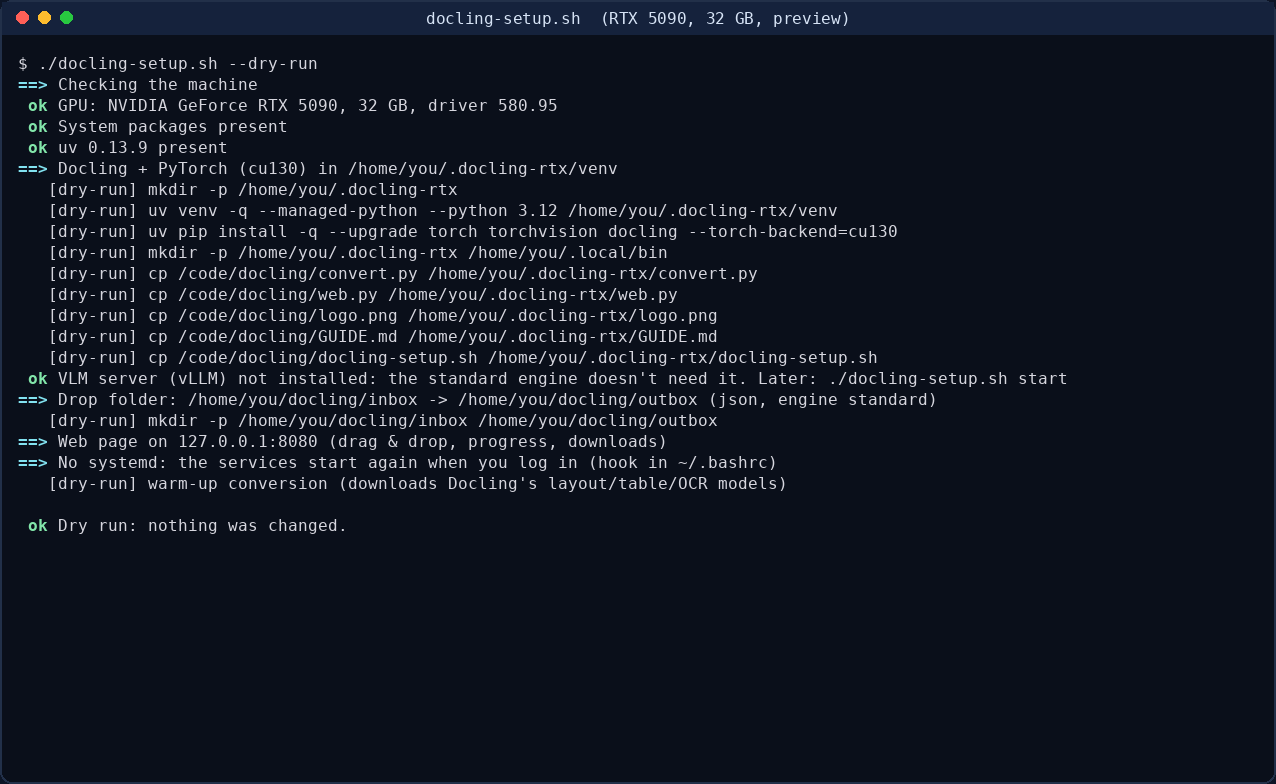
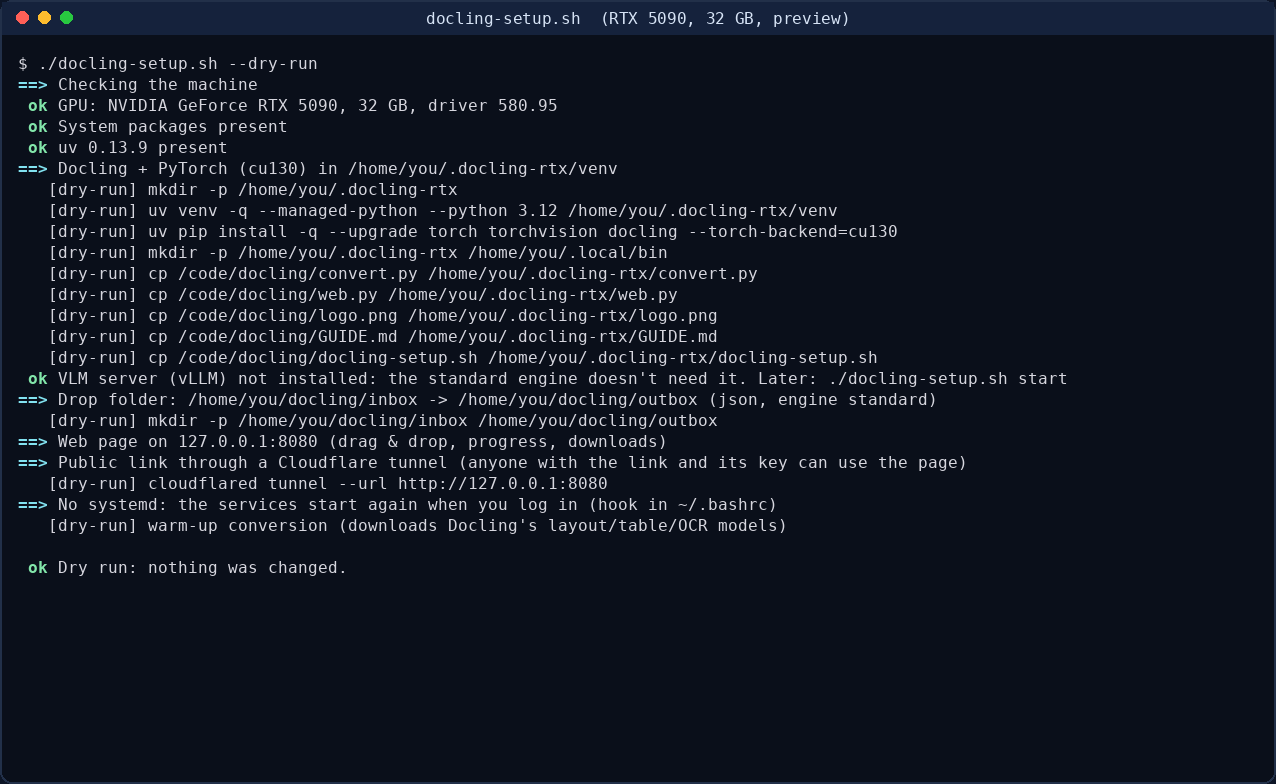
v1.4.0: public link via Cloudflare quick tunnel (on by default, key required), CHANGELOG.md, install time in README
- cloudflared downloaded into ~/.docling-rtx/bin; docling-tunnel service (or background + autostart)
- web page always asks for its key when the tunnel is on (also from localhost); shows the current
  public link with a copy button; warns before uploads over Cloudflare's 100 MB limit
- docling-rtx web tunnel on|off|logs; Settings: tunnel / SSH only / direct link
- CHANGELOG.md for 1.0.0-1.4.0; README: ~12 min install, public link step, SSH alternative

Changed region(s): [[0.0306, 0.5816, 0.7641, 0.6735], [0.0306, 0.7041, 0.2751, 0.7347], [0.0306, 0.6429, 0.0611, 0.6735]]

diff --git a/web.py b/web.py
@@ -14,6 +14,7 @@ import argparse
 import hmac
 import json
 import os
+import re
 import shutil
 import tempfile
 import subprocess
@@ -154,6 +155,14 @@ def poke(rel):
         pass
 
 
+def public_url():
+    """The Cloudflare quick tunnel's current address, from cloudflared's log (it changes on every restart)."""
+    if not A.tunnel_log:
+        return None
+    found = re.findall(r"https://[a-z0-9-]+\.trycloudflare\.com", _read(Path(A.tunnel_log).expanduser()) or "")
+    return found[-1] if found else None
+
+
 def state():
     inbox, outbox = Path(A.inbox).expanduser(), Path(A.outbox).expanduser()
     try:
@@ -195,6 +204,7 @@ def state():
     return {"watcher": watcher, "current": cur, "vllm": vllm_up(port), "vllm_port": port, "gpu": gpu(), "docs": docs,
             "archive": str(Path(A.archive).expanduser()),
             "device": st.get("device"), "batch": A.batch, "sys": system(),
+            "public_url": (lambda u: u and u + "/?token=" + quote(A.token))(public_url()) if A.token else None,
             "inbox": str(inbox), "outbox": str(outbox)}
 
 
@@ -350,6 +360,8 @@ th,td{padding:10px 12px;text-align:left;border-bottom:1px solid var(--line)}th{c
 .st{font-size:13px;font-weight:600}.done{color:var(--ok)}.failed{color:var(--bad)}.waiting{color:var(--warn)}.converting{color:var(--acc)}.cancelled{color:var(--dim)}
 .cpu{border-color:var(--bad);color:var(--bad)}.stop{border-color:#ff6b6b88;color:#ffb3b3}.stop:hover{background:#ff6b6b22}
 .curhead{display:flex;justify-content:space-between;align-items:center;gap:12px}
+.share{display:flex;align-items:center;gap:10px;margin-top:12px;background:var(--card);border:1px solid var(--line);border-radius:12px;padding:8px 12px;font-size:13px}
+.share code{flex:1;overflow:hidden;text-overflow:ellipsis;white-space:nowrap;color:var(--text)}.share span{color:var(--dim)}
 .stats{display:grid;grid-template-columns:repeat(4,1fr);gap:10px;margin-top:16px}
 .stat{background:var(--card);border:1px solid var(--line);border-radius:12px;padding:9px 12px}
 .stat .k{display:flex;justify-content:space-between;font-size:12px;color:var(--dim)}.stat .k b{color:var(--text);font-weight:600;font-variant-numeric:tabular-nums}
@@ -362,6 +374,7 @@ button:disabled{opacity:.45;cursor:default}
 </style></head><body><main>
 <header><h1><img src="/logo.png" alt="" onerror="this.remove()">Docling RTX</h1><div class="pills" id="pills"></div></header>
 <div class="stats" id="stats"></div>
+<div id="share"></div>
 <div id="drop"><b>Drop documents here</b> or click to choose<br><span class="dim">PDF, Word, Excel, PowerPoint, CSV, HTML, images, email&hellip; Each one becomes structured JSON.</span>
 <input type="file" id="pick" multiple hidden></div>
 <div id="up"></div><div id="cur"></div>
@@ -372,7 +385,9 @@ button:disabled{opacity:.45;cursor:default}
 </main><script>
 const $=s=>document.querySelector(s), esc=s=>String(s??'').replace(/[&<>"']/g,c=>({'&':'&amp;','<':'&lt;','>':'&gt;','"':'&quot;',"'":'&#39;'}[c]));
 const enc=p=>String(p).split('/').map(encodeURIComponent).join('/');   // safe for '#', '?', '&', "'", '+' in names
-document.addEventListener('click',e=>{const b=e.target.closest('button[data-act]');if(!b||b.disabled)return;
+document.addEventListener('click',e=>{const c=e.target.closest('button[data-copy]');
+  if(c){navigator.clipboard.writeText($('#pub').textContent).then(()=>{c.textContent='copied';setTimeout(()=>c.textContent='copy',1500)});return}
+  const b=e.target.closest('button[data-act]');if(!b||b.disabled)return;
   ({cancel:cancelDoc,retry:retry,remove:removeDoc})[b.dataset.act](b.dataset.n)});
 const secs=t=>t==null?'':t<60?Math.round(t)+'s':t<3600?Math.floor(t/60)+'m '+String(Math.round(t%60)).padStart(2,'0')+'s':Math.floor(t/3600)+'h '+String(Math.floor(t%3600/60)).padStart(2,'0')+'m';
 const size=b=>b<1e6?(b/1e3).toFixed(0)+' KB':(b/1e6).toFixed(1)+' MB';
@@ -408,6 +423,8 @@ async function refresh(){
     ${['done','failed','cancelled'].includes(d.status)?`<button title="Remove from the list (the source moves to the archive, the JSON stays)" data-act="remove" data-n="${esc(d.name)}">&times;</button>`:''}
     ${d.status=='converting'||d.status=='waiting'?`<button class="stop" ${d.cancelling?'disabled':''} data-act="cancel" data-n="${esc(d.name)}">${d.cancelling?'cancelling&hellip;':'cancel'}</button>`:''}</td></tr>`).join('')
     :'<tr><td colspan="5" class="dim">No documents yet. Drop some above.</td></tr>';
+  $('#share').innerHTML=s.public_url?`<div class="share"><span>Public link</span><code id="pub">${esc(s.public_url)}</code>
+    <button data-copy="1" title="Anyone with this link (its key included) can use this page. It changes when the tunnel restarts.">copy</button></div>`:'';
   $('#paths').textContent=`Inbox: ${s.inbox}   Outbox: ${s.outbox}   Cleared documents: ${s.archive}`;
   const fin=s.docs.filter(d=>['done','failed','cancelled'].includes(d.status)).length;
   $('#clear').disabled=!fin; $('#clear').textContent=fin?`Clear finished (${fin})`:'Clear finished';
@@ -428,7 +445,9 @@ async function retry(n){await fetch('/retry/'+enc(n),{method:'POST'});refresh()}
 async function cancelDoc(n){if(!confirm('Stop converting '+n+'?\nIts pages done so far are discarded. You can convert it again later.'))return;
   await fetch('/cancel/'+enc(n),{method:'POST'});refresh()}
 async function upload(files){
+  const viaTunnel=location.hostname.endsWith('.trycloudflare.com');
   for(const f of files){
+    if(viaTunnel&&f.size>100e6){alert(f.name+' is '+size(f.size)+': files over 100 MB can\'t pass the Cloudflare tunnel.\nCopy it into the inbox folder instead (scp), or use an SSH tunnel.');continue}
     $('#up').innerHTML=`<div class="cur">Uploading <b>${esc(f.name)}</b> (${size(f.size)})&hellip;<div class="bar"><i id="ub" style="width:0"></i></div></div>`;
     await new Promise(ok=>{const x=new XMLHttpRequest();x.open('PUT','/upload/'+encodeURIComponent(f.name));
       x.upload.onprogress=e=>{const b=$('#ub');if(b&&e.lengthComputable)b.style.width=(100*e.loaded/e.total)+'%'};
@@ -456,6 +475,7 @@ def main():
     ap.add_argument("--vllm-port", type=int, default=8000, help="used when --config has no PORT")
     ap.add_argument("--config", default="~/.docling-rtx/config.env", help="docling-rtx settings (for the vLLM port)")
     ap.add_argument("--token", default=os.environ.get("DOCLING_WEB_TOKEN", ""))
+    ap.add_argument("--tunnel-log", default=None, help="cloudflared's log: the page shows its public https link")
     ap.add_argument("--batch", type=int, default=0, help="the converter's batch size (shown while page 1 is pending)")
     A = ap.parse_args()
     A.archive = A.archive or str(Path(A.inbox).expanduser().parent / "archive")

diff --git a/README.md b/README.md
@@ -2,7 +2,7 @@
 
 **One command turns a rented or local Linux box with an NVIDIA GPU into a document-processing machine.** Drag PDFs, CSVs, Office files, HTML or images onto a web page (or drop them in a folder), and structured JSON for your AI agent comes out.
 
-It installs [Docling](https://github.com/docling-project/docling) on CUDA PyTorch and serves IBM's [granite-docling-258M](https://huggingface.co/ibm-granite/granite-docling-258M) vision-language model with vLLM, the fast path from Docling's [RTX guide](https://docling-project.github.io/docling/getting_started/rtx/#5-install-and-run-docling). Forked from [Summon](https://github.com/codyvolckmar/summon).
+It installs [Docling](https://github.com/docling-project/docling) on CUDA PyTorch and serves IBM's [granite-docling-258M](https://huggingface.co/ibm-granite/granite-docling-258M) vision-language model with vLLM, the fast path from Docling's [RTX guide](https://docling-project.github.io/docling/getting_started/rtx/#5-install-and-run-docling). Forked from [Summon](https://github.com/codyvolckmar/summon). What changed in each version: [CHANGELOG.md](CHANGELOG.md).
 
 ![Web page: converting a 40-page PDF](docs/img/06-web-converting.png)
 
@@ -14,9 +14,13 @@ It installs [Docling](https://github.com/docling-project/docling) on CUDA PyTorc
 curl -fsSL https://raw.githubusercontent.com/codyvolckmar/docling-rtx/main/install.sh | bash
 ```
 
-It runs for a few minutes and ends with a **How to use** box that has your web address.
+**It takes about 12 minutes on a fresh pod**, mostly downloading CUDA PyTorch (~3 GB) and Docling's models. It ends with a **How to use** box that has your public web link. Rerunning it to update reuses everything already downloaded.
 
-**2. Open the web page.** It listens on the server only. From your laptop, add `-L 8080:127.0.0.1:8080` to the ssh command you already use for the server, then open **http://localhost:8080**:
+**2. Open the link it prints**, like `https://<random-words>.trycloudflare.com/?token=...`. A free [Cloudflare quick tunnel](https://developers.cloudflare.com/cloudflare-one/connections/connect-networks/do-more-with-tunnels/trycloudflare/) makes the page reachable from anywhere over HTTPS, with no account and no open port on the pod. **Anyone with the link and its key can use the page**, so share it like a password. The page shows the current link with a **copy** button. The address changes whenever the tunnel restarts, and `docling-rtx web url` prints it again.
+
+Limits of quick tunnels: uploads through the link are capped at **100 MB per file** (copy bigger files into the inbox instead), and Cloudflare gives no uptime guarantee. To switch it off: `docling-rtx web tunnel off`.
+
+**Prefer no public link?** Use an SSH tunnel: `docling-rtx web tunnel off`, then from your laptop add `-L 8080:127.0.0.1:8080` to your ssh command and open **http://localhost:8080**:
 
 ```bash
 ssh -L 8080:127.0.0.1:8080 root@<server> -p <port>      # keep this open while you use the page
@@ -58,6 +62,7 @@ Or use the menu: `docling-rtx`, Settings. Public mode prints `http://<server-ip>
 | Server | `vllm serve` with the RTX guide's settings (`--max-num-seqs 512 --max-num-batched-tokens 8192 --enable-chunked-prefill`), sized to the card: 0.85 of the GPU when the drop folder uses the vlm engine, 0.5 when it shares the card with the standard pipeline; under 10 GB, 32 parallel pages and 0.7 of the GPU; float16 on pre-RTX 30 cards, on `127.0.0.1:8000` only. Runs as the systemd unit `docling-vllm`, which starts on boot; without systemd it runs as a background process. |
 | Drop folder | The `docling-watch` service watches `~/docling/inbox` and writes `<name>.json` (a DoclingDocument) to `~/docling/outbox`, atomically, or `<name>.error.json` on failure. Changed files are converted again. The handover rules are in [GUIDE.md](GUIDE.md#0-the-web-page-and-the-drop-folder-the-main-workflow). |
 | Web page | `docling-web` (or a background process): drag & drop upload into the inbox, live progress from the watcher, downloads, retry. Python standard library only, on `127.0.0.1:8080` (`docling-rtx web public` for a direct link with a key). |
+| Public link | `docling-tunnel`: `cloudflared` (downloaded into `~/.docling-rtx/bin`) runs a Cloudflare quick tunnel to the page. The page then always asks for its key, even from localhost. |
 | Test | `./docling-setup.sh test` converts the Docling paper with both engines into `~/.docling-rtx/test-output/`. |
 
 You don't need the CUDA Toolkit or cuDNN, steps 2-3 of the RTX guide: the PyTorch and vLLM wheels bundle the CUDA runtime and cuDNN. Only the driver matters.
@@ -74,6 +79,7 @@ docling-rtx install                   # full install, no questions (--auto / -y)
 docling-rtx howto                     # the web address and how to use it
 docling-rtx status                    # GPU, CUDA, vLLM / converter / web page up or down
 docling-rtx web [url|start|stop|logs|public|private]   # the web page
+docling-rtx web tunnel on|off|logs                     # the public Cloudflare link (on by default)
 docling-rtx web port <port> [public port]              # its port (and the provider's public port)
 docling-rtx watch start|stop|restart|logs              # the drop folder (logs = progress)
 docling-rtx start|stop|restart|logs   # the vLLM server
@@ -96,6 +102,7 @@ Settings live in `~/.docling-rtx/config.env` (menus 3 and 9): `PORT=8000`, `GPU_
 | [docling-setup.sh](docling-setup.sh) | Installer, menu and the `docling-rtx` command |
 | [web.py](web.py) | The web page (standard library only) |
 | [convert.py](convert.py) | Converter: files/folders/URLs, three engines (`standard`, `vlm`, `local`), `--watch` drop-folder mode, atomic writes, skips finished documents |
+| [CHANGELOG.md](CHANGELOG.md) | What changed in each version |
 | [GUIDE.md](GUIDE.md) | How to process documents once it's live |
 | [tools/termshot.py](tools/termshot.py) | Regenerates the screenshots (real whiptail in a pseudo-terminal) |
 

diff --git a/CHANGELOG.md b/CHANGELOG.md
@@ -1,0 +1,56 @@
+# Changelog
+
+All notable changes to Docling RTX. Install time on a fresh pod: **about 12 minutes**, mostly downloading CUDA PyTorch and Docling's models. Updating reruns the installer, which reuses everything already downloaded: `cd ~/docling-rtx && git pull && ./docling-setup.sh install`.
+
+## 1.4.0 (2026-11-24): public link
+
+- **Cloudflare quick tunnel, on by default.** When the web page launches, `cloudflared` gives it a public `https://<random>.trycloudflare.com` address. You need no Cloudflare account and no open port on the pod. Anyone with the link and its key can use the page. Without the key it answers 403, and the key is now required even from localhost. The page shows the current link with a **copy** button, since the address changes when the tunnel restarts. `docling-rtx web url` prints it too.
+- `docling-rtx web tunnel on|off|logs`. The Settings menu has three access modes: public link (tunnel), SSH tunnel only, or a direct `http://IP:PORT` link with a key.
+- Uploads over 100 MB are stopped with an explanation when you use the tunnel, because that is Cloudflare's per-request limit. Copy big files into the inbox instead.
+- The tunnel runs as the `docling-tunnel` service, or as a background process on pods without systemd. It restarts if it crashes and comes back at login, like the other services.
+
+## 1.3.0 (2026-11-24): code review fixes, faster setup
+
+Setup
+- **vLLM installs on first use**, not by default: `docling-rtx start`, choosing the `vlm` engine in menu 3, or `WITH_VLM=1` at install. This saves ~12 GB and several minutes when you only use the standard engine.
+- NVIDIA drivers 525–559, common on rented pods (535/550), use the CUDA 12.6 build instead of aborting the install.
+- apt is skipped when its packages are already present.
+- A warm-up conversion at the end of the install downloads Docling's models, so the first document starts right away.
+- vLLM's GPU share is 0.85 when the drop folder uses the vlm engine, and 0.5 when it shares the card with the standard pipeline.
+
+Robustness on rented pods
+- **Without systemd:** a service that can't start is reported instead of shown as UP, for example a web page whose port Jupyter already holds. A service you stopped stays stopped, and autostart at login takes a lock, so two terminals opening together start one converter, not two.
+- Changing the vLLM port or memory in Settings restarts the running vLLM, never a second one.
+- RunPod: the public port comes from `RUNPOD_TCP_PORT_<port>`, and the HTTPS proxy link is offered.
+- Local traffic never goes through an `http_proxy`.
+
+Web page and converter
+- Uploads and retries start at once: the page tells the converter the file is ready. Upload to JSON takes 0.1–0.9 s instead of 5–10 s, and the inbox scan runs every 2 s instead of 5 s.
+- File names with `#`, `?`, `&`, `'`, `+` or accents work for download, cancel, retry and remove.
+- A cancel that lands as a document finishes can no longer leave the next document empty.
+- Downloads and "Download all (.zip)" are streamed instead of held in memory.
+
+## 1.2.0 (2026-11-24): easy mode
+
+- **One-line installer:** `curl -fsSL https://raw.githubusercontent.com/codyvolckmar/docling-rtx/main/install.sh | bash`.
+- **Web page:** drag & drop upload, live page-by-page progress with time left, downloads, a zip of all results, and plain-English errors with **retry**.
+- **Cancel** a running document (it stops within seconds and the models stay loaded) or a waiting one.
+- **Clear finished** and per-row remove: the originals move to `~/docling/archive/`, and the JSON stays in the outbox.
+- A live **CPU / RAM / GPU / VRAM** widget, measured against the container's own limits on pods, plus a "converter on GPU / CPU" badge.
+- The **`docling-rtx`** command (menu, `status`, `howto`, `web`, `watch`, ...), also linked into `/usr/local/bin` when installed as root.
+- **Web port** at install (`WEB_PORT=... WEB_PUBLIC=1`) or later (`docling-rtx web port <port> [public port]`). On Vast.ai the public port mapping is detected.
+- Services restart if they crash and come back at login on pods without systemd.
+- Logo, in the page header and as the tab icon.
+- Fixes: the menu installs `whiptail` itself on minimal images. vLLM uses uv's own Python, which includes `Python.h`. vLLM is sized to the card (the 6 GB GTX 1660 Ti failed to start). The PyTorch CUDA build is pinned. The VLM badge follows a changed vLLM port.
+
+## 1.1.0 (2026-11-24): drop folder
+
+- `~/docling/inbox` → `~/docling/outbox`: every file put in the inbox becomes structured JSON (a DoclingDocument), written atomically, or `name.error.json` with the reason. Changed files are converted again, and failures aren't retried in a loop.
+- Every format Docling reads: PDF, Word, Excel, PowerPoint, CSV, HTML, Markdown, images, EPUB, email, LaTeX and more.
+- The `docling-watch` service, and a drop-folder menu (folders, output formats, engine).
+
+## 1.0.0 (2026-11-24): first version
+
+- Forked from [Summon](https://github.com/codyvolckmar/summon): a whiptail menu that installs Docling on CUDA PyTorch, plus granite-docling-258M on vLLM, following Docling's RTX guide.
+- `convert.py` (`docling-convert`): batch conversion of files, folders and URLs with three engines (standard, vlm, local).
+- `GUIDE.md`: how to process documents.

diff --git a/GUIDE.md b/GUIDE.md
@@ -156,12 +156,15 @@ The plain Docling CLI is installed as `docling` too, for example `docling --pipe
 
 ## 7. Use it from another machine
 
-The server listens on `127.0.0.1` only, on purpose: it has no API key. To reach it from your laptop, tunnel over SSH:
+**The public link (default).** The install starts a Cloudflare quick tunnel, and `docling-rtx web url` prints `https://<random>.trycloudflare.com/?token=...`. Open it anywhere. The key in the link is the lock: anyone who has the whole link can use the page, and without the key the page answers 403. The address changes when the tunnel restarts (a reboot, or `docling-rtx web tunnel on`), and the page shows the current one with a copy button. Uploads through the tunnel are limited to 100 MB per file, so copy bigger files into the inbox with scp. `docling-rtx web tunnel off` removes the public link.
+
+**SSH tunnel (private).** With the public link off, the page listens on the server only:
 
 ```bash
-ssh -N -L 8000:127.0.0.1:8000 user@gpu-box
-docling-convert scans/ --engine vlm      # on the laptop, with docling installed there
+ssh -N -L 8080:127.0.0.1:8080 user@gpu-box     # then open http://localhost:8080
 ```
+
+The VLM server (vLLM) never leaves 127.0.0.1. It has no key, so reach it through SSH: `ssh -N -L 8000:127.0.0.1:8000 user@gpu-box`, then `docling-convert scans/ --engine vlm` on your laptop.
 
 ## 8. Troubleshooting
 
